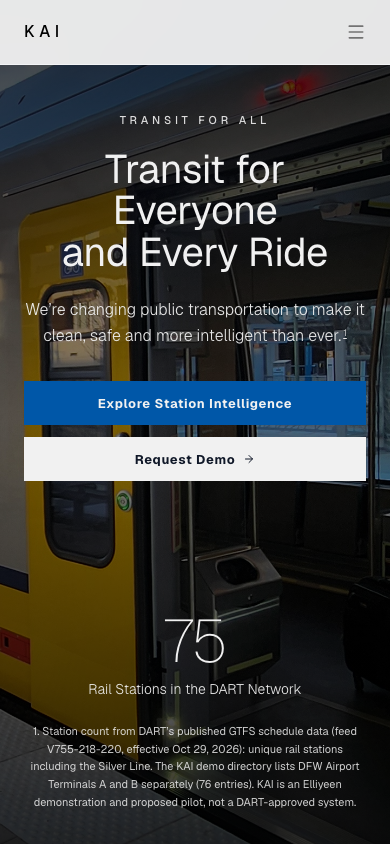
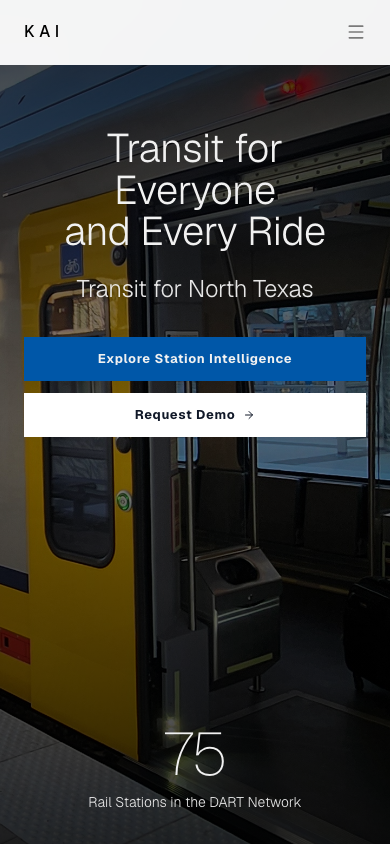
Landing: funnel hero, remove hero footnote and Capabilities, Mapbox station map (SVG fallback without token)

diff --git a/src/components/stations/StationsMapbox.tsx b/src/components/stations/StationsMapbox.tsx
@@ -1,0 +1,80 @@
+"use client";
+import "mapbox-gl/dist/mapbox-gl.css";
+import mapboxgl from "mapbox-gl";
+import { useEffect, useRef } from "react";
+import { linesGeoJSON, stationBounds, stationsGeoJSON } from "@/lib/stations/geojson";
+import type { LineId } from "@/lib/stations";
+
+/** Real Mapbox base map (light style) with KAI station + rollout layers. Needs NEXT_PUBLIC_MAPBOX_TOKEN. */
+export default function StationsMapbox({ token, mode, line, selectedKey, onSelect }: {
+  token: string; mode: "network" | "rollout"; line?: LineId | null; selectedKey?: string | null; onSelect?: (key: string) => void;
+}) {
+  const box = useRef<HTMLDivElement>(null);
+  const mapRef = useRef<mapboxgl.Map | null>(null);
+  const onSelectRef = useRef(onSelect);
+  useEffect(() => { onSelectRef.current = onSelect; }, [onSelect]);
+  const rollout = mode === "rollout";
+
+  useEffect(() => {
+    if (!box.current) return;
+    mapboxgl.accessToken = token;
+    const map = new mapboxgl.Map({
+      container: box.current, style: "mapbox://styles/mapbox/light-v11", bounds: stationBounds(), fitBoundsOptions: { padding: 48 },
+      attributionControl: true, cooperativeGestures: true, dragRotate: false, pitchWithRotate: false, customAttribution: "KAI station positions",
+    });
+    mapRef.current = map;
+    map.addControl(new mapboxgl.NavigationControl({ showCompass: false }), "bottom-right");
+    const popup = new mapboxgl.Popup({ closeButton: false, closeOnClick: false, offset: 12 });
+
+    map.on("load", () => {
+      map.addSource("lines", { type: "geojson", data: linesGeoJSON() });
+      map.addSource("stations", { type: "geojson", data: stationsGeoJSON() });
+      map.addLayer({ id: "lines", type: "line", source: "lines", layout: { "line-join": "round", "line-cap": "round" }, paint: { "line-color": ["get", "color"], "line-width": 3, "line-opacity": rollout ? 0.35 : 0.85 } });
+      map.addLayer({
+        id: "stations", type: "circle", source: "stations",
+        paint: rollout ? {
+          "circle-radius": ["match", ["get", "rollout"], "demo", 9, "connected", 7, "pilot-planned", 7, 4.5],
+          "circle-color": ["match", ["get", "rollout"], "demo", "#F59E0B", "connected", "#0057A8", "#FFFFFF"],
+          "circle-stroke-color": ["match", ["get", "rollout"], "demo", "#0B1F33", "connected", "#FFFFFF", "pilot-planned", "#0057A8", "#6B7280"],
+          "circle-stroke-width": ["match", ["get", "rollout"], "demo", 2.5, 1.6],
+        } : { "circle-radius": 4.5, "circle-color": "#FFFFFF", "circle-stroke-color": "#0B1F33", "circle-stroke-width": 1.6 },
+      });
+      map.addLayer({ id: "selected", type: "circle", source: "stations", filter: ["==", ["get", "key"], ""], paint: { "circle-radius": 9, "circle-color": "#0B1F33", "circle-stroke-color": "#FFFFFF", "circle-stroke-width": 2 } });
+      map.addLayer({
+        id: "labels", type: "symbol", source: "stations", filter: rollout ? ["==", ["get", "rollout"], "demo"] : ["==", ["get", "key"], ""],
+        layout: { "text-field": rollout ? ["concat", ["get", "name"], " (demo)"] : ["get", "name"], "text-size": 13, "text-offset": [0, -1.4], "text-anchor": "bottom", "text-font": ["DIN Pro Bold", "Arial Unicode MS Bold"] },
+        paint: { "text-color": "#0B1F33", "text-halo-color": "#FFFFFF", "text-halo-width": 2 },
+      });
+
+      map.on("mousemove", "stations", (e) => {
+        const f = e.features?.[0]; if (!f) return;
+        map.getCanvas().style.cursor = onSelectRef.current ? "pointer" : "";
+        const el = document.createElement("div");
+        const b = document.createElement("strong"); b.textContent = String(f.properties?.name);
+        const s = document.createElement("div"); s.textContent = rollout ? String(f.properties?.rolloutLabel) : String(f.properties?.lines).replace(/,/g, " · ");
+        el.append(b, s);
+        popup.setLngLat((f.geometry as GeoJSON.Point).coordinates as [number, number]).setDOMContent(el).addTo(map);
+      });
+      map.on("mouseleave", "stations", () => { map.getCanvas().style.cursor = ""; popup.remove(); });
+      map.on("click", "stations", (e) => { const k = e.features?.[0]?.properties?.key; if (k && onSelectRef.current) onSelectRef.current(String(k)); });
+    });
+    return () => { popup.remove(); map.remove(); mapRef.current = null; };
+  }, [token, rollout]);
+
+  // line filter + selection (network mode)
+  useEffect(() => {
+    const map = mapRef.current; if (!map) return;
+    const apply = () => {
+      if (!map.getLayer("stations")) return;
+      // `lines` is a comma-joined string ("red,blue"), so match with index-of.
+      const f = line ? ([">=", ["index-of", line, ["get", "lines"]], 0] as mapboxgl.ExpressionSpecification) : null;
+      map.setFilter("stations", f);
+      map.setPaintProperty("lines", "line-opacity", rollout ? 0.35 : line ? ["case", ["==", ["get", "line"], line], 0.9, 0.1] : 0.85);
+      map.setFilter("selected", ["==", ["get", "key"], selectedKey ?? ""]);
+      if (!rollout) map.setFilter("labels", ["==", ["get", "key"], selectedKey ?? ""]);
+    };
+    if (map.isStyleLoaded() && map.getLayer("stations")) apply(); else map.once("idle", apply);
+  }, [line, selectedKey, rollout]);
+
+  return <div ref={box} role="region" aria-label={rollout ? "Interactive map of KAI rollout status by station. Use the station directory for a text list." : "Interactive map of DART rail stations. Use the station list for keyboard access."} data-testid={`mapbox-${mode}`} className="w-full aspect-[16/14] rounded-2xl overflow-hidden border border-gray-200" />;
+}

diff --git a/src/components/landing/sections.tsx b/src/components/landing/sections.tsx
@@ -25,13 +25,12 @@ export function CinematicHero() {
       <Image src={img(IMAGES.hero.file)} alt={IMAGES.hero.alt} fill priority sizes="100vw" className="object-cover object-[62%_center]" />
       <div className="absolute inset-0 bg-linear-to-b from-black/75 via-black/40 to-black/80" />
 
-      <div className="relative z-10 flex-1 flex flex-col items-center text-center px-6 pt-28 sm:pt-32">
-        <p className="hero-animate text-[11px] sm:text-xs font-medium tracking-[0.35em] uppercase text-white/90 mb-5">Transit for All</p>
+      <div className="relative z-10 flex-1 flex flex-col items-center text-center px-6 pt-32 sm:pt-40">
         <h1 className="hero-animate font-sans text-[2.5rem] sm:text-6xl lg:text-7xl xl:text-[5.5rem] font-light leading-[1.04] tracking-[-0.03em] max-w-4xl" style={{ animationDelay: "120ms", fontFamily: "var(--font-geist-sans), system-ui, sans-serif" }}>
           Transit for Everyone<br />and Every Ride
         </h1>
-        <p className="hero-animate mt-6 text-base sm:text-xl font-light text-white/95 max-w-2xl leading-relaxed" style={{ animationDelay: "240ms" }}>
-          We&rsquo;re changing public transportation to make it clean, safe and more intelligent than ever.<sup className="text-[0.6em] ml-0.5"><a href="#hero-note" aria-label="Footnote 1" className="underline underline-offset-2">1</a></sup>
+        <p className="hero-animate mt-5 sm:mt-6 text-2xl sm:text-3xl lg:text-4xl font-light tracking-[-0.01em] text-white/95" style={{ animationDelay: "240ms", fontFamily: "var(--font-geist-sans), system-ui, sans-serif" }}>
+          Transit for North Texas
         </p>
         <div className="hero-animate mt-8 w-full max-w-md sm:max-w-none" style={{ animationDelay: "340ms" }}>
           <CTAButtons dark />
@@ -41,9 +40,6 @@ export function CinematicHero() {
       <div className="relative z-10 px-6 pb-8 sm:pb-10 text-center">
         <p className="hero-animate text-6xl sm:text-7xl lg:text-8xl font-thin tracking-[-0.03em] leading-none" style={{ animationDelay: "460ms" }} data-testid="hero-metric">75</p>
         <p className="hero-animate mt-2 text-sm sm:text-base font-light text-white/95" style={{ animationDelay: "520ms" }}>Rail Stations in the DART Network</p>
-        <p id="hero-note" className="mt-6 mx-auto max-w-3xl text-[11px] sm:text-xs leading-relaxed text-white/85">
-          1. Station count from DART&rsquo;s published GTFS schedule data (feed V755-218-220, effective Oct 29, 2026): unique rail stations including the Silver Line. The KAI demo directory lists DFW Airport Terminals A and B separately (76 entries). KAI is an Elliyeen demonstration and proposed pilot, not a DART-approved system.
-        </p>
       </div>
     </section>
   );
@@ -58,6 +54,7 @@ export function ProofSection() {
             This is the new DART standard.<br />
             <span className="text-gray-600">Enjoy your ride in North Texas.</span>
           </h2>
+          <p className="mt-8 text-lg sm:text-xl font-light text-gray-800 max-w-2xl mx-auto leading-relaxed">We&rsquo;re changing public transportation to make it clean, safe and more intelligent than ever.</p>
         </FadeUp>
         <FadeUp delay={120}>
           <div className="mt-14 max-w-2xl mx-auto text-left"><EvidencePanel /></div>

diff --git a/src/components/stations/MapPanel.tsx b/src/components/stations/MapPanel.tsx
@@ -3,6 +3,7 @@ import { useMemo } from "react";
 import { DFW_COUNTIES } from "@/lib/geo/dfw-counties";
 import { LINES, STATIONS, STATION_RECORDS, type LineId } from "@/lib/stations";
 import { rolloutOf, ROLLOUT_LABEL, type RolloutStatus } from "@/lib/stations/rollout";
+import StationsMapbox from "./StationsMapbox";
 
 const W = 640, H = 600, PAD = 20;
 // City labels for orientation only (approximate city-center coordinates).
@@ -14,9 +15,23 @@ const CITIES: City[] = [
 ];
 
 /** Dallas–Fort Worth base map: Census county outlines + the app's own station coordinates. Not to scale for navigation. */
-export default function MapPanel({ mode = "network", selectedKey, line, onSelect }: {
-  mode?: "network" | "rollout"; selectedKey?: string | null; line?: LineId | null; onSelect?: (key: string) => void;
-}) {
+type MapProps = { mode?: "network" | "rollout"; selectedKey?: string | null; line?: LineId | null; onSelect?: (key: string) => void };
+const MAPBOX_TOKEN = process.env.NEXT_PUBLIC_MAPBOX_TOKEN ?? "";
+
+/** Mapbox when a public token is configured at build time; otherwise the self-contained SVG county map. */
+export default function MapPanel(props: MapProps) {
+  if (MAPBOX_TOKEN) {
+    return (
+      <figure className="m-0">
+        <StationsMapbox token={MAPBOX_TOKEN} mode={props.mode ?? "network"} line={props.line} selectedKey={props.selectedKey} onSelect={props.onSelect} />
+        <figcaption className="mt-2 text-xs text-gray-600">Base map © Mapbox © OpenStreetMap. Station positions: the app&apos;s station coordinates. Orientation only, not a navigation map.</figcaption>
+      </figure>
+    );
+  }
+  return <SvgCountyMap {...props} />;
+}
+
+function SvgCountyMap({ mode = "network", selectedKey, line, onSelect }: MapProps) {
   const g = useMemo(() => {
     const lats = STATIONS.map((s) => s.lat), lngs = STATIONS.map((s) => s.lng);
     const pad = 0.035;

diff --git a/tests/e2e/landing.spec.ts b/tests/e2e/landing.spec.ts
@@ -6,6 +6,9 @@ test("landing: no tournament content, CTAs reach the platform, tabs and accordio
   await expect(page.getByRole("heading", { level: 1 })).toContainText("Transit for Everyone");
   expect(await page.locator("body").innerText()).not.toMatch(/fifa|world cup|at&t stadium|arlington/i);
   await expect(page.getByTestId("hero-metric")).toHaveText("75");
+  await expect(page.getByText("Transit for North Texas")).toBeVisible();
+  await expect(page.getByText("Transit for All", { exact: true })).toHaveCount(0);
+  await expect(page.getByText("We’re changing public transportation to make it clean, safe and more intelligent than ever.")).toBeVisible();
   await expect(page.getByText("This is the new DART standard.")).toBeVisible();
   await expect(page.getByText("Enjoy your ride in North Texas.")).toBeVisible();
   await expect(page.getByText("Mission", { exact: true })).toHaveCount(0);
@@ -15,10 +18,8 @@ test("landing: no tournament content, CTAs reach the platform, tabs and accordio
   await page.getByRole("tab", { name: "Verified" }).press("ArrowLeft");
   await expect(page.getByRole("tab", { name: "Intelligent" })).toHaveAttribute("aria-selected", "true");
   await expect(page.locator("#panel-intelligent")).toBeVisible();
-  // capability lineup
-  await page.getByRole("tab", { name: /Operations Layer/ }).click();
-  await expect(page.getByRole("tab", { name: /Operations Layer/ })).toHaveAttribute("aria-selected", "true");
-  await expect(page.locator("#cap-panel-ops")).toBeVisible();
+  await expect(page.getByText("Capabilities", { exact: true })).toHaveCount(0);
+  await expect(page.locator("#hero-note")).toHaveCount(0);
   await noHorizontalOverflow(page);
   await page.getByRole("link", { name: /Explore Station Intelligence/ }).first().click();
   await expect(page).toHaveURL(/\/stations\/?$/);

diff --git a/src/app/page.tsx b/src/app/page.tsx
@@ -2,7 +2,6 @@ import Link from "next/link";
 import Nav from "@/components/Nav";
 import FadeUp from "@/components/FadeUp";
 import ExperienceTabs from "@/components/landing/ExperienceTabs";
-import CapabilityLineup from "@/components/landing/CapabilityLineup";
 import RolloutSection from "@/components/landing/RolloutSection";
 import { CinematicHero, ProofSection, WorkflowSteps, OperationalIntelligence, FinalCTA } from "@/components/landing/sections";
 
@@ -28,16 +27,6 @@ export default function Home() {
             </FadeUp>
             <ExperienceTabs />
             <p className="mt-10 text-center"><Link href="/stations" className="text-sm font-medium border-b border-black pb-1 hover:border-gray-400">Open the interactive demo (synthetic data)</Link></p>
-          </div>
-        </section>
-
-        <section id="capabilities" className="bg-white py-16 sm:py-24 lg:py-32">
-          <div className="max-w-7xl mx-auto px-6 lg:px-8">
-            <FadeUp>
-              <Eyebrow>Capabilities</Eyebrow>
-              <h2 className="text-3xl sm:text-4xl lg:text-5xl font-light tracking-[-0.02em] mb-10 lg:mb-14">Three layers. One accountable record.</h2>
-            </FadeUp>
-            <CapabilityLineup />
           </div>
         </section>
 
@@ -87,7 +76,6 @@ export default function Home() {
           </div>
           <div className="flex flex-wrap justify-center gap-x-6 gap-y-3 text-[13px] text-gray-700">
             <Link href="/platform" className="hover:text-black">Platform</Link>
-            <Link href="/#capabilities" className="hover:text-black">Capabilities</Link>
             <Link href="/#about" className="hover:text-black">About</Link>
             <Link href="/contact" className="hover:text-black">Contact</Link>
           </div>

diff --git a/src/lib/stations/geojson.ts b/src/lib/stations/geojson.ts
@@ -1,0 +1,34 @@
+import { LINES } from "./lines";
+import { STATIONS, STATION_RECORDS } from "./index";
+import { rolloutOf, ROLLOUT_LABEL } from "./rollout";
+
+export interface StationFeatureProps { key: string; name: string; rollout: string; rolloutLabel: string; lines: string }
+
+/** Station points for Mapbox. `lines` is a comma-joined list ("red,blue") so Mapbox filters can use `in`. */
+export function stationsGeoJSON() {
+  return {
+    type: "FeatureCollection" as const,
+    features: STATIONS.map((s) => ({
+      type: "Feature" as const,
+      geometry: { type: "Point" as const, coordinates: [s.lng, s.lat] as [number, number] },
+      properties: { key: s.key, name: s.name, rollout: rolloutOf(s.key), rolloutLabel: ROLLOUT_LABEL[rolloutOf(s.key)], lines: s.lineIds.join(",") } satisfies StationFeatureProps,
+    })),
+  };
+}
+
+/** One LineString per rail line, in the original app's station order. */
+export function linesGeoJSON() {
+  return {
+    type: "FeatureCollection" as const,
+    features: LINES.map((l) => ({
+      type: "Feature" as const,
+      geometry: { type: "LineString" as const, coordinates: STATION_RECORDS.filter((r) => r.lineId === l.id).map((r) => [r.lng, r.lat] as [number, number]) },
+      properties: { line: l.id, color: l.color },
+    })),
+  };
+}
+
+export function stationBounds(): [[number, number], [number, number]] {
+  const lngs = STATIONS.map((s) => s.lng), lats = STATIONS.map((s) => s.lat);
+  return [[Math.min(...lngs), Math.min(...lats)], [Math.max(...lngs), Math.max(...lats)]];
+}

diff --git a/tests/unit/geojson.test.ts b/tests/unit/geojson.test.ts
@@ -1,0 +1,21 @@
+import { describe, expect, it } from "vitest";
+import { linesGeoJSON, stationBounds, stationsGeoJSON } from "@/lib/stations/geojson";
+import { STATIONS } from "@/lib/stations";
+
+describe("Mapbox GeoJSON", () => {
+  it("emits one point per station with rollout state and [lng,lat] order", () => {
+    const g = stationsGeoJSON();
+    expect(g.features).toHaveLength(STATIONS.length);
+    const akard = g.features.find((f) => f.properties.key === "akard")!;
+    expect(akard.properties.rollout).toBe("demo");
+    expect(akard.geometry.coordinates[0]).toBeLessThan(-96); // longitude first
+    expect(akard.geometry.coordinates[1]).toBeGreaterThan(32);
+    expect(g.features.filter((f) => f.properties.rollout === "connected")).toHaveLength(0);
+    expect(akard.properties.lines.split(",").sort()).toEqual(["blue", "green", "orange", "red"]);
+  });
+  it("emits five line strings and bounds that contain every station", () => {
+    expect(linesGeoJSON().features.map((f) => f.properties.line).sort()).toEqual(["blue", "green", "orange", "red", "silver"]);
+    const [[w, s], [e, n]] = stationBounds();
+    for (const st of STATIONS) { expect(st.lng).toBeGreaterThanOrEqual(w); expect(st.lng).toBeLessThanOrEqual(e); expect(st.lat).toBeGreaterThanOrEqual(s); expect(st.lat).toBeLessThanOrEqual(n); }
+  });
+});

diff --git a/src/components/landing/assets.ts b/src/components/landing/assets.ts
@@ -11,6 +11,5 @@ export const IMAGES = {
   lineupData: { file: "20260223_195547.jpg", alt: "DART rail system map posted in a station, showing the Red, Blue, Green and Orange lines" },
   lineupOps: { file: "DartredlineParker.jpg", alt: "Teal DART train signed for Parker Road arriving at a platform at night" },
   lineupIntel: { file: "20260314_083035.jpg", alt: "Yellow-and-white DART train at a station platform with its doors open" },
-  capabilities: { file: "20260223_191335.jpg", alt: "Park Lane Station platform at night" },
   cta: { file: "20260227_124144.jpg", alt: "Park Lane DART Station" },
 } as const;

diff --git a/src/components/Nav.tsx b/src/components/Nav.tsx
@@ -7,7 +7,6 @@ import { Menu, X } from "lucide-react";
 
 const websiteLinks = [
   { href: "/platform", label: "Platform" },
-  { href: "/#capabilities", label: "Capabilities" },
   { href: "/#how-it-works", label: "How It Works" },
   { href: "/#about", label: "About" },
 ];
